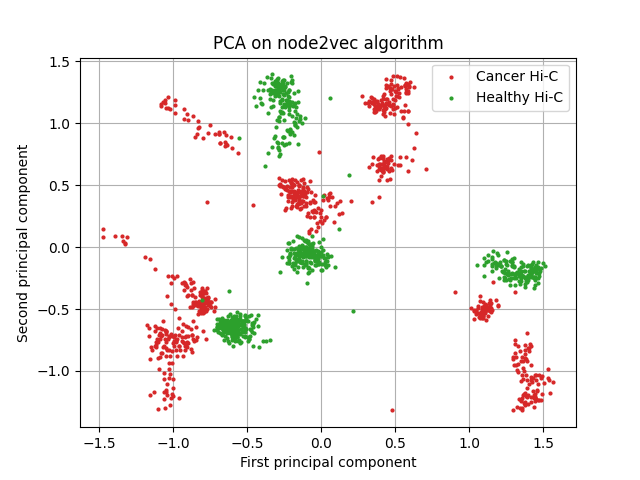
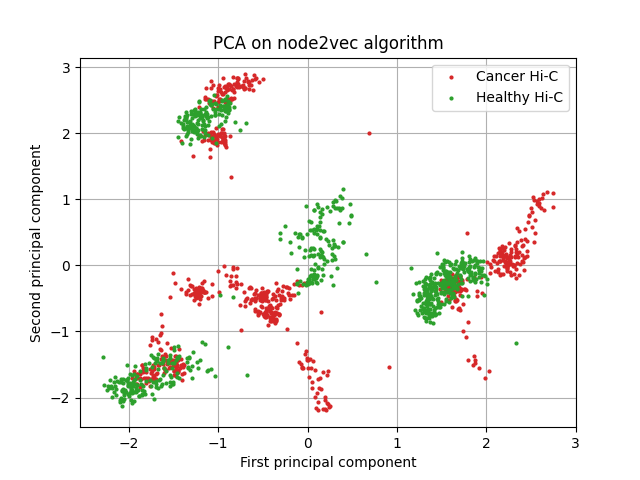
added features normalization function

diff --git a/scripts/hic.py b/scripts/hic.py
@@ -2,6 +2,7 @@ import networkx as nx
 import pandas as pd
 import matplotlib.pyplot as plt
 from node2vec import Node2Vec
+from sklearn.preprocessing import StandardScaler
 from sklearn.decomposition import PCA
 #openpyxl needed
 
@@ -75,14 +76,17 @@ class Algorithms:
        self.model.wv.most_similar('2')  # Output node names are always strings
        self.model.wv.save_word2vec_format(self.embedding_path)
        self.get_df()
+       self.normalize_features()
 
     def get_df(self):
         self.df = pd.read_csv(self.embedding_path, header = 0,
                               names = self.old_dimensions, sep= ' ')
-
+        
+    def normalize_features(self):
+        self.x = self.df.loc[:, self.old_dimensions].values
+        self.x = StandardScaler().fit_transform(self.x)
 
     def pca(self):
-        self.x = self.df.loc[:, self.old_dimensions].values
         self.pca = PCA(n_components = self.number_components)
         principalComponents = self.pca.fit_transform(self.x)
         self.principal_df = pd.DataFrame(data = principalComponents,
@@ -91,7 +95,7 @@ class Algorithms:
 
 
 
-def get_plot(features1, features2): #non mi piace il fatto che features1 deve essere per forza cancro
+def get_plot(features1, features2): #non mi piace il fatto che features1 debba essere per forza cancro
     plt.rc('axes', axisbelow=True)
     plt.grid()
     x1, y1 = features1[:,0], features1[:,1]

diff --git a/scripts/main.py b/scripts/main.py
@@ -1,6 +1,7 @@
 import numpy as np
 from hic import HiC, Algorithms, get_plot
 
+
 cancer_path = '..\data\cancer_hic.csv' 
 healthy_path = '..\data\healthy_hic.csv'
 metadata_path = '..\data\metadata_hic.xlsx' 
@@ -13,8 +14,8 @@ healthy_hic = HiC(healthy_path, metadata_path)
 algorithms_cancer = Algorithms(cancer_hic)
 algorithms_healthy = Algorithms(healthy_hic)
 
-algorithms_cancer.node2vec()
-algorithms_healthy.node2vec()
+algorithms_cancer.get_df()
+algorithms_healthy.get_df()
 
 algorithms_cancer.pca()
 algorithms_healthy.pca()
